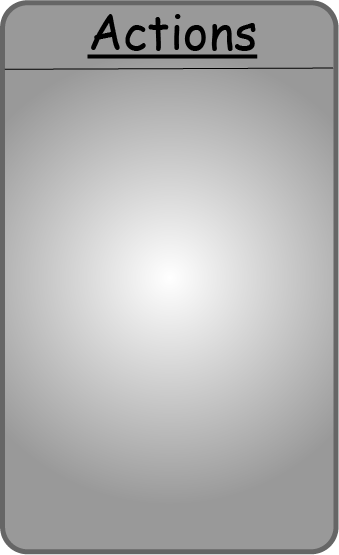
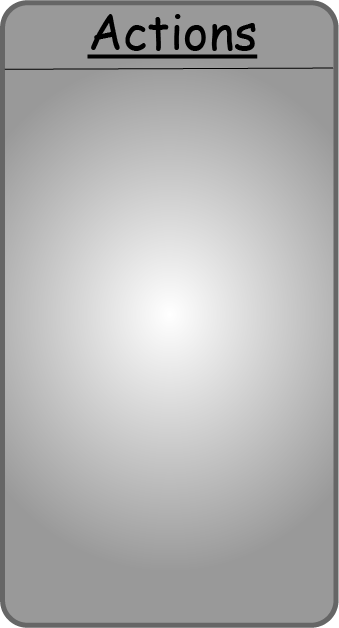
Redesign, added butttons and fields.

diff --git a/src/UI/Layout/Game/CurrentAsteroidSidePanel/currentasteroidsidepanel.css b/src/UI/Layout/Game/CurrentAsteroidSidePanel/currentasteroidsidepanel.css
@@ -5,10 +5,28 @@
 
 .shellpanel {
     -fx-background-image:url('Resources/shell_panel.png');
-    -fx-background-size: 100% 100%
+    -fx-background-size: 100% 100%;
+    -fx-text-fill: rgba(0, 0, 0, 1);
+    -fx-highlight-text-fill: rgba(0, 0, 0, 1);
 }
 
 .corepanel {
     -fx-background-image:url('Resources/core_panel.png');
-    -fx-background-size: 100% 100%
+    -fx-background-size: 100% 100%;
+    -fx-text-fill: rgba(0, 0, 0, 1);
+    -fx-highlight-text-fill: rgba(0, 0, 0, 1);
+}
+
+.sectorpanel {
+    -fx-background-image:url('Resources/sector.png');
+    -fx-background-size: 100% 100%;
+    -fx-text-fill: rgba(0, 0, 0, 1);
+    -fx-highlight-text-fill: rgba(0, 0, 0, 1);
+}
+
+.closepanel {
+    -fx-background-image:url('Resources/close.png');
+    -fx-background-size: 100% 100%;
+    -fx-text-fill: rgba(0, 0, 0, 1);
+    -fx-highlight-text-fill: rgba(0, 0, 0, 1);
 }

diff --git a/src/UI/Layout/Game/ActionSidePanel/actionsidepanel.css b/src/UI/Layout/Game/ActionSidePanel/actionsidepanel.css
@@ -32,3 +32,8 @@
     -fx-background-image:url('Resources/put_back.png');
     -fx-background-size: 100% 100%
 }
+
+.skipbutton {
+    -fx-background-image:url('Resources/skip.png');
+    -fx-background-size: 100% 100%;
+}

diff --git a/src/UI/Layout/Game/ActionSidePanel/ActionSidePanelController.java b/src/UI/Layout/Game/ActionSidePanel/ActionSidePanelController.java
@@ -20,6 +20,8 @@ public class ActionSidePanelController {
     Button PutBackButton;
     @FXML
     Button PutDownButton;
+    @FXML
+    Button SkipButton;
 
     public ActionSidePanelController(GameUIController GUIC){
         gameUIController = GUIC;
@@ -32,6 +34,7 @@ public class ActionSidePanelController {
         new SelectHandler(CraftButton);
         new SelectHandler(PutBackButton);
         new SelectHandler(PutDownButton);
+        new SelectHandler(SkipButton);
     }
 
     @FXML
@@ -46,6 +49,7 @@ public class ActionSidePanelController {
     public void Mine(){
         try {
             gameUIController.getGameController().InterpretCommand("p " + gameUIController.getGameController().getCurrentPlayer().GetUID() + " mine");
+            gameUIController.SwitchToInventory();
         } catch (Exception e) {
             e.printStackTrace();
         }
@@ -55,6 +59,7 @@ public class ActionSidePanelController {
     public void Build(){
         try {
             gameUIController.getGameController().InterpretCommand("p " + gameUIController.getGameController().getCurrentPlayer().GetUID() + " build_base");
+            gameUIController.SwitchToInventory();
         } catch (Exception e) {
             e.printStackTrace();
         }
@@ -68,5 +73,9 @@ public class ActionSidePanelController {
     @FXML
     public void PutDown(){
         gameUIController.SwitchToPutDownSidePanel();
+    }
+    @FXML
+    public void Skip(){
+        System.out.println("Skip");
     }
 }

diff --git a/src/UI/Layout/Game/CraftSidePanel/CraftSidePanelController.java b/src/UI/Layout/Game/CraftSidePanel/CraftSidePanelController.java
@@ -32,6 +32,7 @@ public class CraftSidePanelController {
     public void Robot(){
         try {
             gameUIController.getGameController().InterpretCommand("p " + gameUIController.getGameController().getCurrentPlayer().GetUID() + " craft robot");
+            gameUIController.SwitchToInventory();
         } catch (Exception e) {
             e.printStackTrace();
         }
@@ -39,12 +40,14 @@ public class CraftSidePanelController {
     @FXML
     public void Teleports(){try {
         gameUIController.getGameController().InterpretCommand("p " + gameUIController.getGameController().getCurrentPlayer().GetUID() + " craft teleports");
+        gameUIController.SwitchToInventory();
     } catch (Exception e) {
         e.printStackTrace();
     }}
     @FXML
     public void Base(){ try {
         gameUIController.getGameController().InterpretCommand("p " + gameUIController.getGameController().getCurrentPlayer().GetUID() + " craft base");
+        gameUIController.SwitchToInventory();
     } catch (Exception e) {
         e.printStackTrace();
     } }

diff --git a/src/UI/Layout/Game/InventorySidePanel/InventorySidePanelController.java b/src/UI/Layout/Game/InventorySidePanel/InventorySidePanelController.java
@@ -1,8 +1,13 @@
 package UI.Layout.Game.InventorySidePanel;
 
+import Model.Materials.*;
 import UI.Layout.Game.GameUIController;
+import Model.Map;
 import javafx.fxml.FXML;
 import javafx.scene.control.Label;
+
+import java.lang.reflect.Array;
+import java.util.ArrayList;
 
 public class InventorySidePanelController {
     GameUIController gameUIController;
@@ -22,6 +27,15 @@ public class InventorySidePanelController {
     }
 
     public void Init(){
+        Refresh();
+    }
 
+    public void Refresh() {
+        ArrayList<Material> inv = gameUIController.getGameController().getCurrentPlayer().getMaterials();
+        BillCreator bc = BillCreator.GetInstance();
+        CoalNumb.setText(Integer.toString(bc.Count(inv, new Coal(new Map()))));
+        IronNumb.setText(Integer.toString(bc.Count(inv, new Iron(new Map()))));
+        IceNumb.setText(Integer.toString(bc.Count(inv, new Ice(new Map()))));
+        UranNumb.setText(Integer.toString(bc.Count(inv, new Uranium(new Map()))));
     }
 }

diff --git a/src/Model/Materials/BillCreator.java b/src/Model/Materials/BillCreator.java
@@ -1,6 +1,8 @@
 package Model.Materials;
 
 import Model.Map;
+
+import java.lang.reflect.Array;
 import java.util.ArrayList;
 
 /**
@@ -22,6 +24,22 @@ public class BillCreator {
             instance = new BillCreator();
         }
         return instance;
+    }
+
+    /**
+     * Counts a specific material in a gived inventory
+     * @param inventory the inventory, where it counts the given material
+     * @param comparator the material we want to count in the inventory
+     * @return with the number of the given material type in the inventory
+     */
+    public int Count(ArrayList<Material> inventory, Material comparator){
+        int count = 0;
+        for(Material it: inventory){
+            if(comparator.isSameType(it)){
+                count++;
+            }
+        }
+        return count;
     }
 
     /**

diff --git a/src/UI/Components/MagicConstants.java b/src/UI/Components/MagicConstants.java
@@ -5,13 +5,13 @@ import Utils.Pair;
 public class MagicConstants {
     public static final double AsteroidSize = 30;
     public static final double ShipSize = 20;
-    public static final boolean FullScreen = false;
+    public static final boolean FullScreen = true;
     // Number of sectors
     public static final int sectorNumber = 8;
     // Minimum number of ships
-    public static final int shipNumberMin = 3;
+    public static final int shipNumberMin = 1;
     // Maximum number of ships
-    public static final int shipNumberMax = 8;
+    public static final int shipNumberMax = 1;
     // the distance where asteroids doesnt overlap each other
     public static final double asteroidTooClose = 0.15;
     // the distance where asteroids doesnt overlap each other

diff --git a/src/UI/Layout/Game/GameUIController.java b/src/UI/Layout/Game/GameUIController.java
@@ -413,6 +413,7 @@ public class GameUIController implements EventHandler<KeyEvent> {
         Deselect(f);
         try {
             gameController.InterpretCommand("p " + gameController.getCurrentPlayer().GetUID() + " move " + f.getField().GetUID());
+            SwitchToInventory();
         } catch (Exception e) {
             e.printStackTrace();
         }

diff --git a/src/UI/Layout/Game/CurrentAsteroidSidePanel/CurrentAsteroidSidePanelController.java b/src/UI/Layout/Game/CurrentAsteroidSidePanel/CurrentAsteroidSidePanelController.java
@@ -21,6 +21,10 @@ public class CurrentAsteroidSidePanelController {
     TextField ShellField;
     @FXML
     AnchorPane CoreField;
+    @FXML
+    TextField SectorField;
+    @FXML
+    AnchorPane CloseField;
 
     public CurrentAsteroidSidePanelController(GameUIController GUIC){
         gameUIController = GUIC;

diff --git a/src/Model/Materials/Coal.java b/src/Model/Materials/Coal.java
@@ -14,7 +14,7 @@ import java.util.ArrayList;
  */
 public class Coal extends Material{
 
-    Coal(Map m){super(m);}
+    public Coal(Map m){super(m);}
 
     public Coal(int uid) {super(uid);}
 

diff --git a/src/Model/Materials/Ice.java b/src/Model/Materials/Ice.java
@@ -15,7 +15,7 @@ import java.util.ArrayList;
  */
 public class Ice extends Material {
 
-    Ice(Map m){super(m);}
+    public Ice(Map m){super(m);}
 
     public Ice(int uid) {super(uid);}
 

diff --git a/src/Model/Materials/Uranium.java b/src/Model/Materials/Uranium.java
@@ -15,7 +15,7 @@ public class Uranium extends Material{
     boolean isExposed;
     Asteroid LastAsteroid;
 
-    Uranium(Map m){
+    public Uranium(Map m){
         super(m);
     }
 
